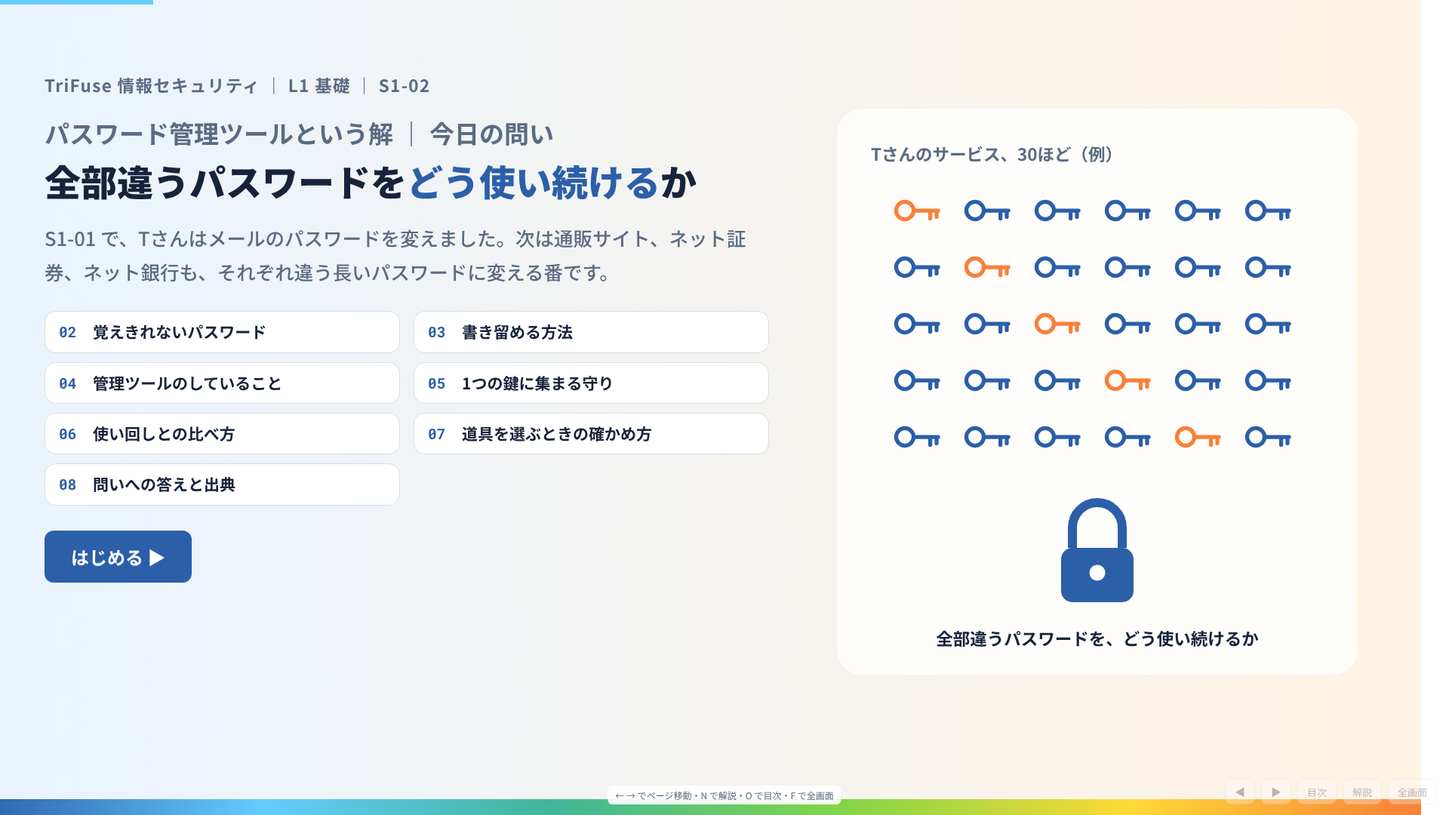
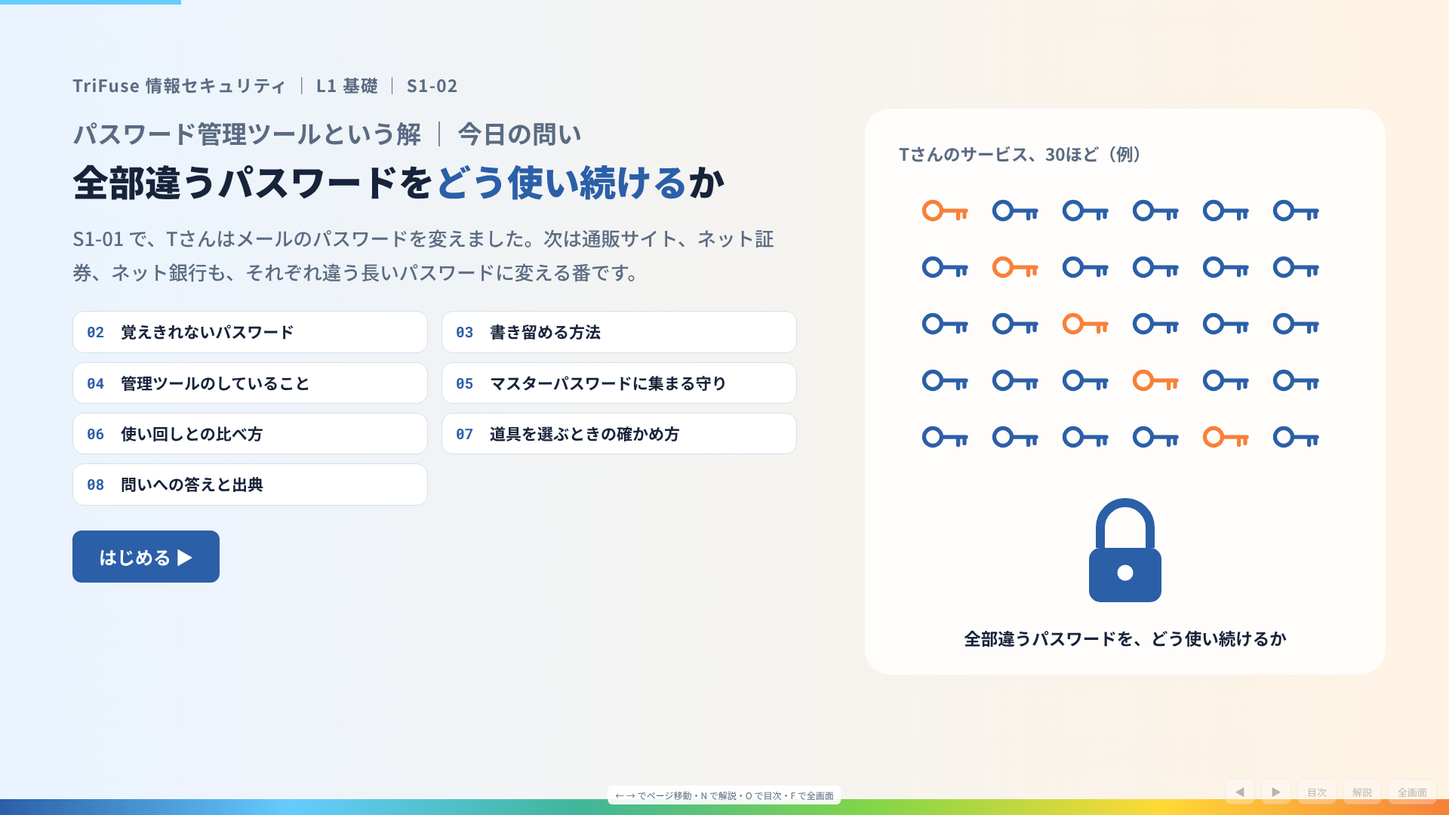
S1-02：言い方を平易に（回の番号・たとえ言葉を外す、make_site v1.29）
Claude-Session: https://claude.ai/code/session_01KsCAt1ehjeTw2EQBVCmaiN

diff --git a/s1-02/index.html b/s1-02/index.html
@@ -357,7 +357,7 @@ svg .sv{transform:none}
       <div class="cover-q fade d2">パスワード管理ツールという解 ｜ 今日の問い</div>
       <h1 class="head fade d2">全部違うパスワードを<span class="hl2">どう使い続ける</span>か</h1>
       <p class="sub fade d3">S1-01 で、Tさんはメールのパスワードを変えました。次は通販サイト、ネット証券、ネット銀行も、それぞれ違う長いパスワードに変える番です。</p>
-      <div class="toc fade d4"><button data-go="1"><span class="n">02</span>覚えきれないパスワード</button><button data-go="2"><span class="n">03</span>書き留める方法</button><button data-go="3"><span class="n">04</span>管理ツールのしていること</button><button data-go="4"><span class="n">05</span>1つの鍵に集まる守り</button><button data-go="5"><span class="n">06</span>使い回しとの比べ方</button><button data-go="6"><span class="n">07</span>道具を選ぶときの確かめ方</button><button data-go="7"><span class="n">08</span>問いへの答えと出典</button></div>
+      <div class="toc fade d4"><button data-go="1"><span class="n">02</span>覚えきれないパスワード</button><button data-go="2"><span class="n">03</span>書き留める方法</button><button data-go="3"><span class="n">04</span>管理ツールのしていること</button><button data-go="4"><span class="n">05</span>マスターパスワードに集まる守り</button><button data-go="5"><span class="n">06</span>使い回しとの比べ方</button><button data-go="6"><span class="n">07</span>道具を選ぶときの確かめ方</button><button data-go="7"><span class="n">08</span>問いへの答えと出典</button></div>
       <button class="btn pr start fade d5" data-go="1">はじめる ▶</button>
     </div>
     <svg class="cover-ill" viewBox="0 0 460 500" aria-label="ばらばらの鍵が1つにまとまる絵"><rect width="460" height="500" rx="22" fill="#fff" opacity=".8"/><g transform="scale(0.666667)"><text x="45" y="69" font-size="22.5" font-weight="700" fill="#5A6B82">Tさんのサービス、30ほど（例）</text></g><g transform="translate(60 90) scale(0.7)"><circle cx="0" cy="0" r="11" fill="none" stroke="#F88039" stroke-width="5"/><path d="M11 0H42M32 0V10M40 0V8" stroke="#F88039" stroke-width="5" stroke-linecap="round"/></g><g transform="translate(122 90) scale(0.7)"><circle cx="0" cy="0" r="11" fill="none" stroke="#2B5FA8" stroke-width="5"/><path d="M11 0H42M32 0V10M40 0V8" stroke="#2B5FA8" stroke-width="5" stroke-linecap="round"/></g><g transform="translate(184 90) scale(0.7)"><circle cx="0" cy="0" r="11" fill="none" stroke="#2B5FA8" stroke-width="5"/><path d="M11 0H42M32 0V10M40 0V8" stroke="#2B5FA8" stroke-width="5" stroke-linecap="round"/></g><g transform="translate(246 90) scale(0.7)"><circle cx="0" cy="0" r="11" fill="none" stroke="#2B5FA8" stroke-width="5"/><path d="M11 0H42M32 0V10M40 0V8" stroke="#2B5FA8" stroke-width="5" stroke-linecap="round"/></g><g transform="translate(308 90) scale(0.7)"><circle cx="0" cy="0" r="11" fill="none" stroke="#2B5FA8" stroke-width="5"/><path d="M11 0H42M32 0V10M40 0V8" stroke="#2B5FA8" stroke-width="5" stroke-linecap="round"/></g><g transform="translate(370 90) scale(0.7)"><circle cx="0" cy="0" r="11" fill="none" stroke="#2B5FA8" stroke-width="5"/><path d="M11 0H42M32 0V10M40 0V8" stroke="#2B5FA8" stroke-width="5" stroke-linecap="round"/></g><g transform="translate(60 140) scale(0.7)"><circle cx="0" cy="0" r="11" fill="none" stroke="#2B5FA8" stroke-width="5"/><path d="M11 0H42M32 0V10M40 0V8" stroke="#2B5FA8" stroke-width="5" stroke-linecap="round"/></g><g transform="translate(122 140) scale(0.7)"><circle cx="0" cy="0" r="11" fill="none" stroke="#F88039" stroke-width="5"/><path d="M11 0H42M32 0V10M40 0V8" stroke="#F88039" stroke-width="5" stroke-linecap="round"/></g><g transform="translate(184 140) scale(0.7)"><circle cx="0" cy="0" r="11" fill="none" stroke="#2B5FA8" stroke-width="5"/><path d="M11 0H42M32 0V10M40 0V8" stroke="#2B5FA8" stroke-width="5" stroke-linecap="round"/></g><g transform="translate(246 140) scale(0.7)"><circle cx="0" cy="0" r="11" fill="none" stroke="#2B5FA8" stroke-width="5"/><path d="M11 0H42M32 0V10M40 0V8" stroke="#2B5FA8" stroke-width="5" stroke-linecap="round"/></g><g transform="translate(308 140) scale(0.7)"><circle cx="0" cy="0" r="11" fill="none" stroke="#2B5FA8" stroke-width="5"/><path d="M11 0H42M32 0V10M40 0V8" stroke="#2B5FA8" stroke-width="5" stroke-linecap="round"/></g><g transform="translate(370 140) scale(0.7)"><circle cx="0" cy="0" r="11" fill="none" stroke="#2B5FA8" stroke-width="5"/><path d="M11 0H42M32 0V10M40 0V8" stroke="#2B5FA8" stroke-width="5" stroke-linecap="round"/></g><g transform="translate(60 190) scale(0.7)"><circle cx="0" cy="0" r="11" fill="none" stroke="#2B5FA8" stroke-width="5"/><path d="M11 0H42M32 0V10M40 0V8" stroke="#2B5FA8" stroke-width="5" stroke-linecap="round"/></g><g transform="translate(122 190) scale(0.7)"><circle cx="0" cy="0" r="11" fill="none" stroke="#2B5FA8" stroke-width="5"/><path d="M11 0H42M32 0V10M40 0V8" stroke="#2B5FA8" stroke-width="5" stroke-linecap="round"/></g><g transform="translate(184 190) scale(0.7)"><circle cx="0" cy="0" r="11" fill="none" stroke="#F88039" stroke-width="5"/><path d="M11 0H42M32 0V10M40 0V8" stroke="#F88039" stroke-width="5" stroke-linecap="round"/></g><g transform="translate(246 190) scale(0.7)"><circle cx="0" cy="0" r="11" fill="none" stroke="#2B5FA8" stroke-width="5"/><path d="M11 0H42M32 0V10M40 0V8" stroke="#2B5FA8" stroke-width="5" stroke-linecap="round"/></g><g transform="translate(308 190) scale(0.7)"><circle cx="0" cy="0" r="11" fill="none" stroke="#2B5FA8" stroke-width="5"/><path d="M11 0H42M32 0V10M40 0V8" stroke="#2B5FA8" stroke-width="5" stroke-linecap="round"/></g><g transform="translate(370 190) scale(0.7)"><circle cx="0" cy="0" r="11" fill="none" stroke="#2B5FA8" stroke-width="5"/><path d="M11 0H42M32 0V10M40 0V8" stroke="#2B5FA8" stroke-width="5" stroke-linecap="round"/></g><g transform="translate(60 240) scale(0.7)"><circle cx="0" cy="0" r="11" fill="none" stroke="#2B5FA8" stroke-width="5"/><path d="M11 0H42M32 0V10M40 0V8" stroke="#2B5FA8" stroke-width="5" stroke-linecap="round"/></g><g transform="translate(122 240) scale(0.7)"><circle cx="0" cy="0" r="11" fill="none" stroke="#2B5FA8" stroke-width="5"/><path d="M11 0H42M32 0V10M40 0V8" stroke="#2B5FA8" stroke-width="5" stroke-linecap="round"/></g><g transform="translate(184 240) scale(0.7)"><circle cx="0" cy="0" r="11" fill="none" stroke="#2B5FA8" stroke-width="5"/><path d="M11 0H42M32 0V10M40 0V8" stroke="#2B5FA8" stroke-width="5" stroke-linecap="round"/></g><g transform="translate(246 240) scale(0.7)"><circle cx="0" cy="0" r="11" fill="none" stroke="#F88039" stroke-width="5"/><path d="M11 0H42M32 0V10M40 0V8" stroke="#F88039" stroke-width="5" stroke-linecap="round"/></g><g transform="translate(308 240) scale(0.7)"><circle cx="0" cy="0" r="11" fill="none" stroke="#2B5FA8" stroke-width="5"/><path d="M11 0H42M32 0V10M40 0V8" stroke="#2B5FA8" stroke-width="5" stroke-linecap="round"/></g><g transform="translate(370 240) scale(0.7)"><circle cx="0" cy="0" r="11" fill="none" stroke="#2B5FA8" stroke-width="5"/><path d="M11 0H42M32 0V10M40 0V8" stroke="#2B5FA8" stroke-width="5" stroke-linecap="round"/></g><g transform="translate(60 290) scale(0.7)"><circle cx="0" cy="0" r="11" fill="none" stroke="#2B5FA8" stroke-width="5"/><path d="M11 0H42M32 0V10M40 0V8" stroke="#2B5FA8" stroke-width="5" stroke-linecap="round"/></g><g transform="translate(122 290) scale(0.7)"><circle cx="0" cy="0" r="11" fill="none" stroke="#2B5FA8" stroke-width="5"/><path d="M11 0H42M32 0V10M40 0V8" stroke="#2B5FA8" stroke-width="5" stroke-linecap="round"/></g><g transform="translate(184 290) scale(0.7)"><circle cx="0" cy="0" r="11" fill="none" stroke="#2B5FA8" stroke-width="5"/><path d="M11 0H42M32 0V10M40 0V8" stroke="#2B5FA8" stroke-width="5" stroke-linecap="round"/></g><g transform="translate(246 290) scale(0.7)"><circle cx="0" cy="0" r="11" fill="none" stroke="#2B5FA8" stroke-width="5"/><path d="M11 0H42M32 0V10M40 0V8" stroke="#2B5FA8" stroke-width="5" stroke-linecap="round"/></g><g transform="translate(308 290) scale(0.7)"><circle cx="0" cy="0" r="11" fill="none" stroke="#F88039" stroke-width="5"/><path d="M11 0H42M32 0V10M40 0V8" stroke="#F88039" stroke-width="5" stroke-linecap="round"/></g><g transform="translate(370 290) scale(0.7)"><circle cx="0" cy="0" r="11" fill="none" stroke="#2B5FA8" stroke-width="5"/><path d="M11 0H42M32 0V10M40 0V8" stroke="#2B5FA8" stroke-width="5" stroke-linecap="round"/></g><g transform="translate(230 400) scale(2)"><path d="M-11 -6V-15A11 11 0 0 1 11 -15V-6" fill="none" stroke="#2B5FA8" stroke-width="4"/><rect x="-16" y="-6" width="32" height="24" rx="5" fill="#2B5FA8"/><circle cx="0" cy="5" r="3.5" fill="#fff"/></g><g transform="scale(0.666667)"><text x="345" y="711" text-anchor="middle" font-size="22.5" font-weight="700" fill="#16233A">全部違うパスワードを、どう使い続けるか</text></g></svg>
@@ -407,20 +407,20 @@ svg .sv{transform:none}
 <g class="sv" data-s="2"><rect x="216" y="244" width="170" height="70" rx="12" fill="#fff" stroke="#D8DFE8" stroke-width="2"/><g transform="scale(0.666667)"><text x="451.5" y="427.5" text-anchor="middle" font-size="22.5" font-weight="700" fill="#16233A">末尾の数字だけを変える</text></g></g>
 <g class="sv" data-s="3"><path d="M226 279H376" stroke="#F88039" stroke-width="3"/><circle cx="366" cy="254" r="16" fill="#FFF1E6" stroke="#F88039" stroke-width="3"/><path d="M359.3 247.3L372.7 260.7M372.7 247.3L359.3 260.7" stroke="#B5500F" stroke-width="4" stroke-linecap="round"/></g>
 <g class="sv" data-s="2"><rect x="402" y="244" width="170" height="70" rx="12" fill="#fff" stroke="#D8DFE8" stroke-width="2"/><g transform="scale(0.666667)"><text x="730.5" y="427.5" text-anchor="middle" font-size="22.5" font-weight="700" fill="#16233A">どこかに書き留める</text></g></g>
-<g class="sv" data-s="3"><g transform="scale(0.666667)"><text x="324" y="519" text-anchor="middle" font-size="22.5" font-weight="700" fill="#B5500F">全部違うパスワード、という条件を満たさない</text></g><g transform="scale(0.666667)"><text x="324" y="555" text-anchor="middle" font-size="19.5" fill="#5A6B82">使い回しは1か所の漏洩が全部へ。数字だけ変えると、規則を読まれる</text></g></g>
+<g class="sv" data-s="3"><g transform="scale(0.666667)"><text x="324" y="519" text-anchor="middle" font-size="22.5" font-weight="700" fill="#B5500F">どちらも、全部違うパスワードにならない</text></g><g transform="scale(0.666667)"><text x="324" y="555" text-anchor="middle" font-size="19.5" fill="#5A6B82">使い回しは1か所の漏洩が全部へ。数字だけ変えると、規則を読まれる</text></g></g>
 <g class="sv" data-s="3"><g transform="scale(0.666667)"><text x="742.5" y="519" text-anchor="middle" font-size="22.5" font-weight="700" fill="#1F7A63">残るのはこれ</text></g></g>
 </svg>
     </div>
     <div class="kp fade d2">
-      <div class="card"><h4>S0-EX で入口を数え直すと<span class="ex">（例）</span></h4><p>4つの口座のほかに、動画の配信、SNS、携帯会社のマイページ、ポイントカードなど。合わせて30ほどあった。</p></div>
+      <div class="card"><h4>Tさんが使っているサービスを数えると<span class="ex">（例）</span></h4><p>4つの口座のほかに、動画の配信、SNS、携帯会社のマイページ、ポイントカードなど。合わせて30ほどあった。</p></div>
       <div class="card sv" data-s="2"><h4>覚えきれないとき、やりがちな3通り</h4><p>同じものを使い回す。1つの文字列の末尾の数字だけを変える。どこかに書き留める。</p></div>
-      <div class="card sv" data-s="3" style="border-left:7.5px solid var(--warn)"><h4>はじめの2つは条件を満たさない</h4><p>使い回しは、1か所の漏洩が全部の口座に広がる（S1-01）。末尾の数字だけを変えると、規則を読まれて残りまで当てられる。</p></div>
+      <div class="card sv" data-s="3" style="border-left:7.5px solid var(--warn)"><h4>はじめの2つは、全部違うパスワードにならない</h4><p>使い回しは、1か所から漏れると全部の口座が開く。末尾の数字だけを変えると、規則を読まれて残りまで当てられる。</p></div>
     </div>
   </div>
 </section>
 
 <section id="p3" class="slide page hasbr" data-n="s2" data-steps="3">
-  <header class="hd"><span class="chap">2. 書き留める方法</span><h2 class="head">書き留める方法は、書く場所と置く場所しだいで使える方法になる</h2><span class="num">03</span></header><p class="bridge"><b class="bk">前で分かったこと</b><span>残るのは、書き留める方法</span><i class="ar">→</i><b class="bk now">ここで見ること</b><span>国の手引きが挙げる保管のしかた</span></p>
+  <header class="hd"><span class="chap">2. 書き留める方法</span><h2 class="head">書き留めるなら、どこに置くかで安全さが変わる</h2><span class="num">03</span></header><p class="bridge"><b class="bk">前で分かったこと</b><span>残るのは、書き留める方法</span><i class="ar">→</i><b class="bk now">ここで見ること</b><span>国の手引きが挙げる保管のしかた</span></p>
   <div class="body bt" style="display:flex;flex-direction:column;gap:21px">
     <div class="stepbar"><b style="font-size:22.5px">保管のしかたを見る</b><button class="btn pr" data-next>次の段階 ▶</button><button class="btn" data-reset>はじめから</button><span class="hint">→キーでも進みます</span></div>
     <div class="g3" style="display:grid;grid-template-columns:repeat(3,1fr);gap:21px">
@@ -455,7 +455,7 @@ svg .sv{transform:none}
 </section>
 
 <section id="p5" class="slide page hasbr" data-n="s4" data-steps="4">
-  <header class="hd"><span class="chap">4. 1つの鍵に集まる守り</span><h2 class="head">30個の鍵が1つの鍵の後ろにまとまり、その1つが破られると全部開く</h2><span class="num">05</span></header><p class="bridge"><b class="bk">前で分かったこと</b><span>覚えるのはマスターパスワード1つ</span><i class="ar">→</i><b class="bk now">ここで見ること</b><span>1つに集めたことで起きること</span></p>
+  <header class="hd"><span class="chap">4. マスターパスワードに集まる守り</span><h2 class="head">マスターパスワードが破られると、30個のパスワードが全部開く</h2><span class="num">05</span></header><p class="bridge"><b class="bk">前で分かったこと</b><span>覚えるのはマスターパスワード1つ</span><i class="ar">→</i><b class="bk now">ここで見ること</b><span>1つに集めたことで起きること</span></p>
   <div class="body" style="display:grid;grid-template-columns:1.3fr 1fr;gap:33px">
     <div class="card fade d1" style="display:flex;flex-direction:column;gap:9px">
       <div class="stepbar"><b style="font-size:22.5px">守りを集める</b><button class="btn pr" data-next>次の段階 ▶</button><button class="btn" data-reset>はじめから</button><span class="hint">→キーでも進みます</span></div>
@@ -523,46 +523,46 @@ svg .sv{transform:none}
 <g class="sv" data-s="2"><g transform="translate(530 268) scale(0.55)"><circle cx="0" cy="0" r="11" fill="none" stroke="#F88039" stroke-width="5"/><path d="M11 0H42M32 0V10M40 0V8" stroke="#F88039" stroke-width="5" stroke-linecap="round"/></g></g>
 <g><g transform="translate(125 160) scale(2.2)"><path d="M-11 -6V-15A11 11 0 0 1 11 -15V-6" fill="none" stroke="#2B5FA8" stroke-width="4"/><rect x="-16" y="-6" width="32" height="24" rx="5" fill="#2B5FA8"/><circle cx="0" cy="5" r="3.5" fill="#fff"/></g><g transform="scale(0.666667)"><text x="187.5" y="354" text-anchor="middle" font-size="24" font-weight="900" fill="#16233A">マスターパスワード</text></g><g transform="scale(0.666667)"><text x="187.5" y="387" text-anchor="middle" font-size="19.5" fill="#5A6B82">覚えるのは、この1つ</text></g></g>
 <g class="sv" data-s="2"><g transform="translate(125 160) scale(2.2)"><path d="M-11 -6V-15A11 11 0 0 1 11 -15V-22" fill="none" stroke="#F88039" stroke-width="4"/><rect x="-16" y="-6" width="32" height="24" rx="5" fill="#F88039"/><circle cx="0" cy="5" r="3.5" fill="#fff"/></g><g transform="scale(0.666667)"><text x="187.5" y="444" text-anchor="middle" font-size="21" font-weight="700" fill="#B5500F">破られると、後ろの</text></g><g transform="scale(0.666667)"><text x="187.5" y="471" text-anchor="middle" font-size="21" font-weight="700" fill="#B5500F">30個がまとめて開く</text></g></g>
-<g class="sv" data-s="3"><rect x="30" y="326" width="540" height="70" rx="12" fill="#E7F6F1" stroke="#40B69A" stroke-width="2"/><g transform="scale(0.666667)"><text x="450" y="531" text-anchor="middle" font-size="22.5" font-weight="700" fill="#1F7A63">集まった1か所に、S1-01 の守りをすべて当てる</text></g><g transform="scale(0.666667)"><text x="450" y="567" text-anchor="middle" font-size="21" fill="#1F7A63">ほかで使わない長いマスターパスワード ＋ 管理ツールに多要素認証</text></g></g>
+<g class="sv" data-s="3"><rect x="30" y="326" width="540" height="70" rx="12" fill="#E7F6F1" stroke="#40B69A" stroke-width="2"/><g transform="scale(0.666667)"><text x="450" y="531" text-anchor="middle" font-size="22.5" font-weight="700" fill="#1F7A63">だから、マスターパスワードを固める</text></g><g transform="scale(0.666667)"><text x="450" y="567" text-anchor="middle" font-size="21" fill="#1F7A63">ほかで使わない長いマスターパスワード ＋ 管理ツールに多要素認証</text></g></g>
 </svg>
     </div>
     <div class="kp fade d2">
-      <div class="card sv" data-s="1"><h4>相手から見た値打ちが大きくなる</h4><p>S0-01 の「取れる額・成功のしやすさ・かかる手間」で言えば、開ければ30の口座が手に入る鍵。</p></div>
-      <div class="card sv" data-s="4" style="border-left:7.5px solid var(--warn)"><h4>忘れたときにどうなるか、先に確かめる</h4><p>管理ツールの多くは、マスターパスワードを忘れると提供元でも中身を取り出せない作り（製品によって違う）。自分も入れなくなる締め出しは S3-04 で扱う。</p></div>
-      <div class="sv" data-s="4"><p class="ans"><b>2つ目の答え</b>集まった1か所に守りを集め、忘れたときの戻り方を使い始める前に確かめる</p></div>
+      <div class="card sv" data-s="1"><h4>相手にとって、ねらう値打ちが大きい</h4><p>開ければ30の口座が一度に手に入る鍵になる。</p></div>
+      <div class="card sv" data-s="4" style="border-left:7.5px solid var(--warn)"><h4>忘れたときにどうなるか、先に確かめる</h4><p>管理ツールの多くは、マスターパスワードを忘れると提供元でも中身を取り出せない作り（製品によって違う）。忘れると、自分も入れなくなる。</p></div>
+      <div class="sv" data-s="4"><p class="ans"><b>2つ目の答え</b>マスターパスワードを固め、忘れたときの戻り方を使い始める前に確かめる</p></div>
     </div>
   </div>
 </section>
 
 <section id="p6" class="slide page hasbr" data-n="s5" data-steps="3">
-  <header class="hd"><span class="chap">5. 使い回しとの比べ方</span><h2 class="head">開く口座の数はどれも全部で、違うのは破られる入口の数</h2><span class="num">06</span></header><p class="bridge"><b class="bk">前で分かったこと</b><span>1つが破られると、全部が開く</span><i class="ar">→</i><b class="bk now">ここで見ること</b><span>それなら使わないほうがよいのか、前の方法と比べる</span></p>
+  <header class="hd"><span class="chap">5. 使い回しとの比べ方</span><h2 class="head">どの方法も破られれば全部開く。違うのは、漏れる入口が30か所か1か所か</h2><span class="num">06</span></header><p class="bridge"><b class="bk">前で分かったこと</b><span>1つが破られると、全部が開く</span><i class="ar">→</i><b class="bk now">ここで見ること</b><span>それなら使わないほうがよいのか、前の方法と比べる</span></p>
   <div class="body bt" style="display:flex;flex-direction:column;gap:21px">
     <div class="stepbar"><b style="font-size:22.5px">比べる列を出す</b><button class="btn pr" data-next>次の段階 ▶</button><button class="btn" data-reset>はじめから</button><span class="hint">→キーでも進みます</span></div>
     <div class="card fade d1" style="padding:9px 15px">
       <table class="atk atk4" style="width:100%;border-collapse:collapse">
-        <tr><th style="text-align:left;padding:15px 21px;font-size:21px;color:#5A6B82;border-bottom:3px solid #D8DFE8">方法</th><th style="text-align:left;padding:15px 21px;font-size:21px;color:#5A6B82;border-bottom:3px solid #D8DFE8">破られたときに開く口座</th><th style="text-align:left;padding:15px 21px;font-size:21px;color:#5A6B82;border-bottom:3px solid #D8DFE8">破られる入口の数</th><th style="text-align:left;padding:15px 21px;font-size:21px;color:#5A6B82;border-bottom:3px solid #D8DFE8"></th></tr>
+        <tr><th style="text-align:left;padding:15px 21px;font-size:21px;color:#5A6B82;border-bottom:3px solid #D8DFE8">方法</th><th style="text-align:left;padding:15px 21px;font-size:21px;color:#5A6B82;border-bottom:3px solid #D8DFE8">破られたときに開く口座</th><th style="text-align:left;padding:15px 21px;font-size:21px;color:#5A6B82;border-bottom:3px solid #D8DFE8">漏れる入口の数</th><th style="text-align:left;padding:15px 21px;font-size:21px;color:#5A6B82;border-bottom:3px solid #D8DFE8"></th></tr>
         <tr><td style="padding:21px 24px;border-bottom:1.5px solid #D8DFE8;font-size:24px;font-weight:700">全部同じパスワード（使い回し）</td><td class="sv" data-s="1" style="padding:21px 24px;border-bottom:1.5px solid #D8DFE8;font-size:24px">全部</td><td class="sv" data-s="2" style="padding:21px 24px;border-bottom:1.5px solid #D8DFE8;font-size:24px;font-weight:900;color:#B5500F;white-space:nowrap">30か所</td><td class="sv" data-s="2" style="padding:21px 24px;border-bottom:1.5px solid #D8DFE8;font-size:24px;font-size:21px;color:#5A6B82">どのサービスから漏れても開く</td></tr><tr><td style="padding:21px 24px;border-bottom:1.5px solid #D8DFE8;font-size:24px;font-weight:700">末尾の数字だけ変える</td><td class="sv" data-s="1" style="padding:21px 24px;border-bottom:1.5px solid #D8DFE8;font-size:24px">規則を読まれれば全部</td><td class="sv" data-s="2" style="padding:21px 24px;border-bottom:1.5px solid #D8DFE8;font-size:24px;font-weight:900;color:#B5500F;white-space:nowrap">30か所</td><td class="sv" data-s="2" style="padding:21px 24px;border-bottom:1.5px solid #D8DFE8;font-size:24px;font-size:21px;color:#5A6B82">どこか1つから規則を読まれる</td></tr><tr><td style="padding:21px 24px;border-bottom:1.5px solid #D8DFE8;font-size:24px;font-weight:700">管理ツール</td><td class="sv" data-s="1" style="padding:21px 24px;border-bottom:1.5px solid #D8DFE8;font-size:24px">マスターパスワードが破られれば全部</td><td class="sv" data-s="2" style="padding:21px 24px;border-bottom:1.5px solid #D8DFE8;font-size:24px;font-weight:900;color:#1F7A63;white-space:nowrap">1か所</td><td class="sv" data-s="2" style="padding:21px 24px;border-bottom:1.5px solid #D8DFE8;font-size:24px;font-size:21px;color:#5A6B82">守りを集められる</td></tr>
       </table>
     </div>
-    <div class="keymsg sv" data-s="3" style="font-size:30px;padding:18px 24px">危ないのは、1か所に集めることよりも、集めた1か所を守っていないこと</div>
+    <div class="keymsg sv" data-s="3" style="font-size:30px;padding:18px 24px">危ないのは管理ツールではなく、マスターパスワードを守っていないこと</div>
     <p class="note sv" data-s="3">このカリキュラムは、管理ツールを使うべきだとは言いません。言えるのは、30個の違うパスワードを記憶だけで回すことはできないことと、道具を使うなら守りをどこに集めるかということまでです。</p>
   </div>
 </section>
 
 <section id="p7" class="slide page hasbr" data-n="s6" data-steps="4">
-  <header class="hd"><span class="chap">6. 道具を選ぶときの確かめ方</span><h2 class="head">道具は製品の名前ではなく、5つの点を説明書きや設定画面で確かめる</h2><span class="num">07</span></header><p class="bridge"><b class="bk">前で分かったこと</b><span>守りを集めた1か所を守ることが要</span><i class="ar">→</i><b class="bk now">ここで見ること</b><span>道具を比べるときに確かめること</span></p>
+  <header class="hd"><span class="chap">6. 道具を選ぶときの確かめ方</span><h2 class="head">道具は名前で選ばず、5つの点を説明書きや設定画面で確かめる</h2><span class="num">07</span></header><p class="bridge"><b class="bk">前で分かったこと</b><span>マスターパスワードを守ることが大事</span><i class="ar">→</i><b class="bk now">ここで見ること</b><span>道具を比べるときに確かめること</span></p>
   <div class="body bt" style="display:flex;flex-direction:column;gap:18px">
     <div class="stepbar"><b style="font-size:22.5px">確かめる点を並べる</b><button class="btn pr" data-next>次の段階 ▶</button><button class="btn" data-reset>はじめから</button><span class="hint">→キーでも進みます</span></div>
-    <div class="card sv" data-s="1" style="display:flex;gap:21px;align-items:center;padding:18px 27px"><span class="pill" style="flex:none;min-width:225px;justify-content:center">守りが働くか</span><p style="color:var(--ink);font-weight:700;font-size:24px">保管したパスワードが暗号化され、提供元からも中身が見えない作りか</p></div><div class="card sv" data-s="1" style="display:flex;gap:21px;align-items:center;padding:18px 27px"><span class="pill" style="flex:none;min-width:225px;justify-content:center">守りが働くか</span><p style="color:var(--ink);font-weight:700;font-size:24px">管理ツールに多要素認証を設定できるか</p></div><div class="card sv" data-s="2" style="display:flex;gap:21px;align-items:center;padding:18px 27px"><span class="pill w" style="flex:none;min-width:225px;justify-content:center">締め出されないか</span><p style="color:var(--ink);font-weight:700;font-size:24px">マスターパスワードを忘れたときに、どうなるか</p></div><div class="card sv" data-s="2" style="display:flex;gap:21px;align-items:center;padding:18px 27px"><span class="pill w" style="flex:none;min-width:225px;justify-content:center">締め出されないか</span><p style="color:var(--ink);font-weight:700;font-size:24px">スマホやパソコンが壊れたときに、中身を取り出せるか</p></div><div class="card sv" data-s="3" style="display:flex;gap:21px;align-items:center;padding:18px 27px"><span class="pill g" style="flex:none;min-width:225px;justify-content:center">預ける相手（S3-03）</span><p style="color:var(--ink);font-weight:700;font-size:24px">提供元はどこで、サービスが終わったときにどうなるか</p></div>
-    <div class="sv" data-s="4"><p class="ans"><b>3つ目の答え</b>製品の名前ではなく、守り・締め出し・預ける相手の5つの点で道具を確かめる</p><p class="note" style="margin-top:9px">どれだけ強い鍵でも、偽のログイン画面に自分で入力すれば相手に渡る。偽の画面への対処は次の S1-03。</p></div>
+    <div class="card sv" data-s="1" style="display:flex;gap:21px;align-items:center;padding:18px 27px"><span class="pill" style="flex:none;min-width:225px;justify-content:center">守りが働くか</span><p style="color:var(--ink);font-weight:700;font-size:24px">保管したパスワードが暗号化され、提供元からも中身が見えない作りか</p></div><div class="card sv" data-s="1" style="display:flex;gap:21px;align-items:center;padding:18px 27px"><span class="pill" style="flex:none;min-width:225px;justify-content:center">守りが働くか</span><p style="color:var(--ink);font-weight:700;font-size:24px">管理ツールに多要素認証を設定できるか</p></div><div class="card sv" data-s="2" style="display:flex;gap:21px;align-items:center;padding:18px 27px"><span class="pill w" style="flex:none;min-width:225px;justify-content:center">自分が入れなくならないか</span><p style="color:var(--ink);font-weight:700;font-size:24px">マスターパスワードを忘れたときに、どうなるか</p></div><div class="card sv" data-s="2" style="display:flex;gap:21px;align-items:center;padding:18px 27px"><span class="pill w" style="flex:none;min-width:225px;justify-content:center">自分が入れなくならないか</span><p style="color:var(--ink);font-weight:700;font-size:24px">スマホやパソコンが壊れたときに、中身を取り出せるか</p></div><div class="card sv" data-s="3" style="display:flex;gap:21px;align-items:center;padding:18px 27px"><span class="pill g" style="flex:none;min-width:225px;justify-content:center">預ける会社は大丈夫か</span><p style="color:var(--ink);font-weight:700;font-size:24px">提供元はどこで、サービスが終わったときにどうなるか</p></div>
+    <div class="sv" data-s="4"><p class="ans"><b>3つ目の答え</b>製品の名前ではなく、守りが働くか・自分が入れなくならないか・預ける会社は大丈夫か、の5つの点で確かめる</p><p class="note" style="margin-top:9px">どれだけ強い鍵でも、偽のログイン画面に自分で入力すれば相手に渡る。偽の画面の見分け方は、次の回（S1-03）で扱う。</p></div>
   </div>
 </section>
 
 <section id="p8" class="slide page hasbr" data-n="sum">
-  <header class="hd"><span class="chap">問いへの答えと出典</span><h2 class="head">道具に生成と保管を任せ、集まった1か所に守りを集める</h2><span class="num">08</span></header><p class="bridge"><b class="bk">今日の問い</b><span>全部違う長いパスワードを、Tさんはどうやって使い続けるのか</span></p>
+  <header class="hd"><span class="chap">問いへの答えと出典</span><h2 class="head">覚えるのは1つだけ。その1つを固める</h2><span class="num">08</span></header><p class="bridge"><b class="bk">今日の問い</b><span>全部違う長いパスワードを、Tさんはどうやって使い続けるのか</span></p>
   <div class="body sumb" style="display:grid;grid-template-columns:1.15fr 1fr;gap:33px">
     <div class="kp" style="gap:15px">
-      <div class="card fade d1 a3"><span class="no">1</span><div><h4>覚えるのはマスターパスワード1つ</h4><p>保管・生成・入力を道具に任せる（3節）</p></div></div><div class="card fade d2 a3"><span class="no">2</span><div><h4>集めた1か所を守る</h4><p>ほかで使わない長いもの＋多要素認証。忘れたときを先に確かめる（4〜5節）</p></div></div><div class="card fade d3 a3"><span class="no">3</span><div><h4>5つの点で道具を確かめる</h4><p>守りが働くか、締め出されないか、預ける相手（6節）</p></div></div>
+      <div class="card fade d1 a3"><span class="no">1</span><div><h4>覚えるのはマスターパスワード1つ</h4><p>保管・生成・入力は道具に任せる</p></div></div><div class="card fade d2 a3"><span class="no">2</span><div><h4>マスターパスワードを固める</h4><p>ほかで使わない長いもの＋多要素認証。忘れたときの戻り方を先に確かめる</p></div></div><div class="card fade d3 a3"><span class="no">3</span><div><h4>5つの点で道具を確かめる</h4><p>守りが働くか、自分が入れなくならないか、預ける会社は大丈夫か</p></div></div>
       <p class="note fade d4">この資料は事実と構造の説明であって、推奨ではありません。どの製品やサービスを使うか、いまの環境が安全かどうかの判定は、この資料の外にあります。決めるのはあなたです。</p>
     </div>
     <div class="card fade d5" style="display:flex;flex-direction:column;gap:12px;align-self:start">
@@ -602,7 +602,7 @@ svg .sv{transform:none}
 <p>管理ツールがしていることは、保管、生成、入力の3つです。保管は、30個のパスワードを暗号化してしまっておくことです。生成では、長くてでたらめな文字列を作ります。入力は、開いているサービスに合ったパスワードを取り出して入れることです。</p>
 <p>Tさんにとって効くのは、生成です。文字列を自分で考えなくてよいので、覚えやすさを気にする必要がなくなります。長さも、全部違うことも、無理なく満たせます。</p>
 <p>代わりに、Tさんが覚えるのは、管理ツールそのものを開くためのパスワード1つになります。これを<b>マスターパスワード</b>と呼びます。</p></div>
-<div class="notes-src" id="notes-s4"><h5 style="font-size:15px;margin:8px 0 6px">4. 1つの鍵に集まる守り</h5>
+<div class="notes-src" id="notes-s4"><h5 style="font-size:15px;margin:8px 0 6px">4. マスターパスワードに集まる守り</h5>
 <p>30個の鍵が、マスターパスワードという1つの鍵の後ろにまとまりました。これで守る場所がはっきりしますが、その1つが破られると、後ろの30個がまとめて開いてしまいます。</p>
 <p>S0-01 で見た「取れる額・成功のしやすさ・かかる手間」で言えば、マスターパスワードは、開ければ30の口座が手に入る鍵です。相手から見た値打ちは、集めた分だけ大きくなります。</p>
 <p>そのため、集まった1か所には、S1-01 で扱った守りをすべて当てます。マスターパスワードはほかのどこでも使わない長いものにすること、管理ツールに多要素認証を設定すること、の2つです。</p>

diff --git a/list/index.html b/list/index.html
@@ -68,7 +68,7 @@ footer{margin-top:48px;padding-top:16px;border-top:1px solid var(--rule);font-si
 <h3 class="lv" id="s1">L1 基礎（11本）</h3>
 <div class="cards">
 <article class="dk"><div class="top"><span class="code">S1-01</span><span class="pg">10ページ</span></div><a class="tt" href="../s1-01/">パスワードとMFA</a><ol><li><a href="../s1-01/#p1"><span>問い</span>漏れたパスワードは証券口座まで届くのか</a></li><li><a href="../s1-01/#p2"><span>02</span>Tさんの4つの口座は、同じメールアドレスと同じパスワード</a></li><li><a href="../s1-01/#p3"><span>03</span>漏れた組み合わせは、ほかのサービスのログイン画面でもまとめて試される</a></li><li><a href="../s1-01/#p4"><span>04</span>長く複雑にしても、漏れたパスワードはそのまま使われる</a></li><li><a href="../s1-01/#p5"><span>05</span>パスワードと別の種類の確認を足すと、漏れたパスワードだけでは入れない</a></li><li><a href="../s1-01/#p6"><span>06</span>多要素認証で止まるのは、相手がパスワードしか持っていない攻撃</a></li><li><a href="../s1-01/#p7"><span>07</span>止まらない攻撃が残っても、多要素認証は設定する価値がある</a></li><li><a href="../s1-01/#p8"><span>08</span>最初に直すのはメール。取られると、ほかの口座のパスワードまで変えられる</a></li><li><a href="../s1-01/#p9"><span>09</span>Gmail のパスワードを渡してしまったら、危なさは3つに分かれる</a></li><li><a href="../s1-01/#p10"><span>10</span>使い回すと届く。止めるのは、使い回さないことと多要素認証</a></li></ol></article>
-<article class="dk"><div class="top"><span class="code">S1-02</span><span class="pg">8ページ</span></div><a class="tt" href="../s1-02/">パスワード管理ツールという解</a><ol><li><a href="../s1-02/#p1"><span>問い</span>全部違うパスワードをどう使い続けるか</a></li><li><a href="../s1-02/#p2"><span>02</span>30個の長くてばらばらな文字列は、頭だけでは覚えておけない</a></li><li><a href="../s1-02/#p3"><span>03</span>書き留める方法は、書く場所と置く場所しだいで使える方法になる</a></li><li><a href="../s1-02/#p4"><span>04</span>管理ツールがしていることは、保管・生成・入力の3つ</a></li><li><a href="../s1-02/#p5"><span>05</span>30個の鍵が1つの鍵の後ろにまとまり、その1つが破られると全部開く</a></li><li><a href="../s1-02/#p6"><span>06</span>開く口座の数はどれも全部で、違うのは破られる入口の数</a></li><li><a href="../s1-02/#p7"><span>07</span>道具は製品の名前ではなく、5つの点を説明書きや設定画面で確かめる</a></li><li><a href="../s1-02/#p8"><span>08</span>道具に生成と保管を任せ、集まった1か所に守りを集める</a></li></ol></article>
+<article class="dk"><div class="top"><span class="code">S1-02</span><span class="pg">8ページ</span></div><a class="tt" href="../s1-02/">パスワード管理ツールという解</a><ol><li><a href="../s1-02/#p1"><span>問い</span>全部違うパスワードをどう使い続けるか</a></li><li><a href="../s1-02/#p2"><span>02</span>30個の長くてばらばらな文字列は、頭だけでは覚えておけない</a></li><li><a href="../s1-02/#p3"><span>03</span>書き留めるなら、どこに置くかで安全さが変わる</a></li><li><a href="../s1-02/#p4"><span>04</span>管理ツールがしていることは、保管・生成・入力の3つ</a></li><li><a href="../s1-02/#p5"><span>05</span>マスターパスワードが破られると、30個のパスワードが全部開く</a></li><li><a href="../s1-02/#p6"><span>06</span>どの方法も破られれば全部開く。違うのは、漏れる入口が30か所か1か所か</a></li><li><a href="../s1-02/#p7"><span>07</span>道具は名前で選ばず、5つの点を説明書きや設定画面で確かめる</a></li><li><a href="../s1-02/#p8"><span>08</span>覚えるのは1つだけ。その1つを固める</a></li></ol></article>
 <article class="dk"><div class="top"><span class="code">S1-03</span><span class="pg">8ページ</span></div><a class="tt" href="../s1-03/">フィッシングと偽サイトの確認手順</a><ol><li><a href="../s1-03/#p1"><span>問い</span>本物そっくりの知らせに何を見て、どう動くか</a></li><li><a href="../s1-03/#p2"><span>02</span>平日の夜、取引しているネット証券の名前でショートメッセージが届いた</a></li><li><a href="../s1-03/#p3"><span>03</span>文面のうまさは目印にならず、見分けの失敗にも気づけない</a></li><li><a href="../s1-03/#p4"><span>04</span>相手の出来ではなく、本物の金融機関ならしないことに当てはまるかを見る</a></li><li><a href="../s1-03/#p5"><span>05</span>知らせのリンクからは入らず、自分の側から証券会社の画面を開く</a></li><li><a href="../s1-03/#p6"><span>06</span>最初の一度は、住所のドメインとアプリの提供元を読む</a></li><li><a href="../s1-03/#p7"><span>07</span>見た目で見分けるのをやめ、相手の側から照らし合わせる</a></li><li><a href="../s1-03/#p8"><span>08</span>本物がしないことで判別し、自分で用意した入口から入る</a></li></ol></article>
 <article class="dk"><div class="top"><span class="code">S1-04</span><span class="pg">9ページ</span></div><a class="tt" href="../s1-04/">OSとアプリを更新する意味</a><ol><li><a href="../s1-04/#p1"><span>問い</span>更新の通知はどれくらい後回しにしてよいか</a></li><li><a href="../s1-04/#p2"><span>02</span>鍵が強くても、端末に穴があれば、相手は鍵を通らずに入る</a></li><li><a href="../s1-04/#p3"><span>03</span>更新の中身の中心は、新しい機能ではなく、見つかった穴を塞ぐこと</a></li><li><a href="../s1-04/#p4"><span>04</span>修正が出た後は、穴の場所を誰でも知ることができる</a></li><li><a href="../s1-04/#p5"><span>05</span>後回しにした期間が長いほど、危険は大きくなる</a></li><li><a href="../s1-04/#p6"><span>06</span>配布が終わった端末では、穴が見つかっても二度と塞がらない</a></li><li><a href="../s1-04/#p7"><span>07</span>S0-EX で数えた入口を、更新する順に並べ直し、自動更新に任せる</a></li><li><a href="../s1-04/#p8"><span>08</span>防げない穴が残るなら、その穴から届く範囲を決めておく</a></li><li><a href="../s1-04/#p9"><span>09</span>配られたら早いうちに。仕組みに任せ、塞げない端末は切り離す</a></li></ol></article>
 <article class="dk"><div class="top"><span class="code">S1-05</span><span class="pg">8ページ</span></div><a class="tt" href="../s1-05/">端末とネットワークとアプリ権限の衛生管理</a><ol><li><a href="../s1-05/#p1"><span>問い</span>鍵の外側に開いている入口はどこか</a></li><li><a href="../s1-05/#p2"><span>02</span>先に減らしてから、残ったものを硬くする順番で、端末のまわりを点検する</a></li><li><a href="../s1-05/#p3"><span>03</span>開いたままの端末の中では、S1-01 と S1-02 の守りが働かない</a></li><li><a href="../s1-05/#p4"><span>04</span>家の中の通信はすべて Wi-Fi の機器を通るので、ここも更新と鍵の対象になる</a></li><li><a href="../s1-05/#p5"><span>05</span>暗号化が守るのはやり取りの中身で、相手が本物かどうかまでは守らない</a></li><li><a href="../s1-05/#p6"><span>06</span>権限を与えると、データは事業者へ、さらにその先へ渡ることもある</a></li><li><a href="../s1-05/#p7"><span>07</span>入口は、パスワードのかかったログイン画面だけではない</a></li><li><a href="../s1-05/#p8"><span>08</span>開いたままの画面、初期設定のままの機器、与えたまま忘れた権限</a></li></ol></article>
@@ -303,7 +303,7 @@ footer{margin-top:48px;padding-top:16px;border-top:1px solid var(--rule);font-si
 <article class="dk"><div class="top"><span class="code">E3-EX</span><span class="pg">7ページ</span></div><a class="tt" href="../e3-ex/">卒業課題：波及経路と反証条件を明示して読む</a><ol><li><a href="../e3-ex/#p1"><span>問い</span>読み筋を三手先まで、外れる条件つきで書く</a></li><li><a href="../e3-ex/#p2"><span>02</span>1本のニュースから、1つの読み筋を三手先まで、条件と外れる条件つきで</a></li><li><a href="../e3-ex/#p3"><span>03</span>書くことは5つ。中心は三手の読み筋と、段ごとの出典</a></li><li><a href="../e3-ex/#p4"><span>04</span>三手を経路の名前で書き、対立する見方と反証条件を添える</a></li><li><a href="../e3-ex/#p5"><span>05</span>運営が見るのは、3つの評価軸だけ。当たり外れは見ない</a></li><li><a href="../e3-ex/#p6"><span>06</span>題材は、官公庁や中央銀行の決定や統計を報じた公表済みのニュースに限る</a></li><li><a href="../e3-ex/#p7"><span>07</span>三手の読み筋を、段ごとの出典、対立する見方、反証条件で支える</a></li></ol></article>
 </div>
 </section>
-<footer>make_site v1.28（s0-01 50c2e74a・s0-02 2e95fb85・s0-ex f2a050db・a0-01 30b2ef9f・a0-02 78939ab9・a0-ex e6d43d4a・f0-01 23dde620・f0-02 466eb6ce・f0-03 c23f17cb・f0-04 93c8d941・f0-ex cd29c841・e0-01 535e488a・e0-02 5b2a3c6a・e0-ex 70aa4361・f1-01 b1ec7614・f1-02 4248ca1f・f1-03 e6e039cd・f1-04 368722ae・f1-05 02fb2ad5・f1-06 9df6d592・f1-07 f7a43dd8・f1-08 fb1232a5・f1-09 1fbb41cd・f1-10 af3f724b・s1-01 a51aae27・s1-02 c4ace705・s1-03 8658725b・s1-04 1f29bea3・s1-05 d9ac88dd・s1-06 4d6f40f9・s1-07 95ee285b・s1-08 63af92dc・s1-09 24c21369・s1-10 9bf7b858・s1-ex 2dfb9175・s2-01 7470b37d・s2-02 7f980b8d・s2-03 fa460cf1・s2-04 7ffccece・s2-05 77ae8dc8・s2-06 7869209f・s2-07 7caf2a14・s2-08 4cd032ba・s2-ex 2f635534・s3-01 da4874a0・s3-02 259b2144・s3-03 93bee158・s3-04 03857286・s3-05 9c42f2e6・s3-ex 76a0d264・e1-01 fc9b31af・e1-02 5c5e348d・e1-03 f86e2122・e1-04 194b747e・e1-05 c1cf74e7・e1-06 bd4efdfd・e1-07 1fe7a9b3・e1-08 0a1dd70c・e1-09 50465a95・e1-10 e3c3ba2a・e1-11 4628654f・e1-12 245bc4da・e1-13 ab06cdf1・e1-14 044a8cbd・e1-15 de018357・e1-ex 89614912・e2-01 975ae973・e2-02 7dcfab0f・e2-03 b7b9740d・e2-04 a0c0fb98・e2-05 b945e59f・e2-06 1c936bb3・e2-07 f6f75079・e2-08 764212d4・e2-09 468568ed・e2-10 14f22e24・e2-11 65fec2db・e2-12 df8c0d86・e2-13 2373069f・e2-14 ff93b6b6・e2-15 e479bb8b・e2-16 cb75bd6b・e2-ex 6f46024e・e3-01 d52bfad5・e3-02 0c58a283・e3-03 9bcc544b・e3-04 0a2f126d・e3-05 86b81abc・e3-06 55349d35・e3-07 8c4f6452・e3-08 b99023ff・e3-09 1ea73cfd・e3-10 130f9a3c・e3-11 5dc98598・e3-12 5aca9351・e3-ex f8f0f251・a1-01 68d581dd・a1-02 2eeea5a8・a1-03 dd2515aa・a1-04 de7e056e・a1-05 753451d6・a1-06 8b516ba0・a1-07 adc351e2・a1-08 b57ade39・a1-09 4f46370e・a1-10 f8bde4ba・a1-11 6d1ac03b・a1-12 e2b1858f・a1-13 394cf086・a1-14 0d8a5118・a1-15 61883536・a1-ex 5a31e835・a2-01 485b79c6・a2-02 f2960554・a2-03 a0b903a1・a2-04 3cbc8980・a2-05 34fb165d・a2-06 612fdedc・a2-07 e5cc3416・a2-08 d6aceae6・a2-09 a963fcb9・a2-10 fb538646・a2-11 b8d90223・a2-12 318d8d56・a2-13 45a48123・a2-14 5aaf12a2・a2-15 43175f4e・a2-ex 8b384fc0・a3-01 7888de0a・a3-02 f2db5215・a3-03 a34a814a・a3-04 7e45d770・a3-05 db0a0bbb・a3-06 8aabccfb・a3-07 b32d217e・a3-08 62e132bf・a3-09 b63f1fd4・a3-ex b555a2f9・f1-11 4b3ff8bd・f1-12 f3f86691・f1-13 815f7bdb・f1-14 8ccc8ff5・f1-15 500715f7・f1-16 357fca0f・f1-17 558ea82c・f1-18 a9a7c3b0・f1-19 18ccc510・f1-20 ed9f4f46・f1-21 47e66df5・f1-ex a5aa7e87・f2-01 7b7753f1・f2-02 0a5c108f・f2-03 f8443962・f2-04 8383e45b・f2-05 4906fbea・f2-06 6d34c7d4・f2-07 3ef5bdf6・f2-08 8793d7d5・f2-09 73bc4a2e・f2-10 735a24c6・f2-11 55e826f9・f2-12 48038aeb・f2-13 b78d1a7c・f2-14 620bfa7b・f2-15 680d8937・f2-16 d8683e4d・f2-17 361013fd・f2-18 52920b59・f2-19 b5989e18・f2-20 8d1165b5・f2-21 735b847d・f2-ex a68b9c76・f3-01 fa5fa1f5・f3-02 50b2f21f・f3-03 5a822b7b・f3-04 634a6316・f3-05 3b3f0a4b・f3-06 b58c204e・f3-07 8182bd1b・f3-08 a7c8b43a・f3-09 12ed2900・f3-10 6cdd39f6・f3-11 d6827457・f3-12 06a24e81・f3-13 974d8c4d・f3-14 7a5d4bd0・f3-15 e2d7719f・f3-16 8abb0893・f3-ex f4736045）</footer>
+<footer>make_site v1.29（s0-01 50c2e74a・s0-02 2e95fb85・s0-ex f2a050db・a0-01 30b2ef9f・a0-02 78939ab9・a0-ex e6d43d4a・f0-01 23dde620・f0-02 466eb6ce・f0-03 c23f17cb・f0-04 93c8d941・f0-ex cd29c841・e0-01 535e488a・e0-02 5b2a3c6a・e0-ex 70aa4361・f1-01 b1ec7614・f1-02 4248ca1f・f1-03 e6e039cd・f1-04 368722ae・f1-05 02fb2ad5・f1-06 9df6d592・f1-07 f7a43dd8・f1-08 fb1232a5・f1-09 1fbb41cd・f1-10 af3f724b・s1-01 a51aae27・s1-02 0a3e7f8f・s1-03 8658725b・s1-04 1f29bea3・s1-05 d9ac88dd・s1-06 4d6f40f9・s1-07 95ee285b・s1-08 63af92dc・s1-09 24c21369・s1-10 9bf7b858・s1-ex 2dfb9175・s2-01 7470b37d・s2-02 7f980b8d・s2-03 fa460cf1・s2-04 7ffccece・s2-05 77ae8dc8・s2-06 7869209f・s2-07 7caf2a14・s2-08 4cd032ba・s2-ex 2f635534・s3-01 da4874a0・s3-02 259b2144・s3-03 93bee158・s3-04 03857286・s3-05 9c42f2e6・s3-ex 76a0d264・e1-01 fc9b31af・e1-02 5c5e348d・e1-03 f86e2122・e1-04 194b747e・e1-05 c1cf74e7・e1-06 bd4efdfd・e1-07 1fe7a9b3・e1-08 0a1dd70c・e1-09 50465a95・e1-10 e3c3ba2a・e1-11 4628654f・e1-12 245bc4da・e1-13 ab06cdf1・e1-14 044a8cbd・e1-15 de018357・e1-ex 89614912・e2-01 975ae973・e2-02 7dcfab0f・e2-03 b7b9740d・e2-04 a0c0fb98・e2-05 b945e59f・e2-06 1c936bb3・e2-07 f6f75079・e2-08 764212d4・e2-09 468568ed・e2-10 14f22e24・e2-11 65fec2db・e2-12 df8c0d86・e2-13 2373069f・e2-14 ff93b6b6・e2-15 e479bb8b・e2-16 cb75bd6b・e2-ex 6f46024e・e3-01 d52bfad5・e3-02 0c58a283・e3-03 9bcc544b・e3-04 0a2f126d・e3-05 86b81abc・e3-06 55349d35・e3-07 8c4f6452・e3-08 b99023ff・e3-09 1ea73cfd・e3-10 130f9a3c・e3-11 5dc98598・e3-12 5aca9351・e3-ex f8f0f251・a1-01 68d581dd・a1-02 2eeea5a8・a1-03 dd2515aa・a1-04 de7e056e・a1-05 753451d6・a1-06 8b516ba0・a1-07 adc351e2・a1-08 b57ade39・a1-09 4f46370e・a1-10 f8bde4ba・a1-11 6d1ac03b・a1-12 e2b1858f・a1-13 394cf086・a1-14 0d8a5118・a1-15 61883536・a1-ex 5a31e835・a2-01 485b79c6・a2-02 f2960554・a2-03 a0b903a1・a2-04 3cbc8980・a2-05 34fb165d・a2-06 612fdedc・a2-07 e5cc3416・a2-08 d6aceae6・a2-09 a963fcb9・a2-10 fb538646・a2-11 b8d90223・a2-12 318d8d56・a2-13 45a48123・a2-14 5aaf12a2・a2-15 43175f4e・a2-ex 8b384fc0・a3-01 7888de0a・a3-02 f2db5215・a3-03 a34a814a・a3-04 7e45d770・a3-05 db0a0bbb・a3-06 8aabccfb・a3-07 b32d217e・a3-08 62e132bf・a3-09 b63f1fd4・a3-ex b555a2f9・f1-11 4b3ff8bd・f1-12 f3f86691・f1-13 815f7bdb・f1-14 8ccc8ff5・f1-15 500715f7・f1-16 357fca0f・f1-17 558ea82c・f1-18 a9a7c3b0・f1-19 18ccc510・f1-20 ed9f4f46・f1-21 47e66df5・f1-ex a5aa7e87・f2-01 7b7753f1・f2-02 0a5c108f・f2-03 f8443962・f2-04 8383e45b・f2-05 4906fbea・f2-06 6d34c7d4・f2-07 3ef5bdf6・f2-08 8793d7d5・f2-09 73bc4a2e・f2-10 735a24c6・f2-11 55e826f9・f2-12 48038aeb・f2-13 b78d1a7c・f2-14 620bfa7b・f2-15 680d8937・f2-16 d8683e4d・f2-17 361013fd・f2-18 52920b59・f2-19 b5989e18・f2-20 8d1165b5・f2-21 735b847d・f2-ex a68b9c76・f3-01 fa5fa1f5・f3-02 50b2f21f・f3-03 5a822b7b・f3-04 634a6316・f3-05 3b3f0a4b・f3-06 b58c204e・f3-07 8182bd1b・f3-08 a7c8b43a・f3-09 12ed2900・f3-10 6cdd39f6・f3-11 d6827457・f3-12 06a24e81・f3-13 974d8c4d・f3-14 7a5d4bd0・f3-15 e2d7719f・f3-16 8abb0893・f3-ex f4736045）</footer>
 </main>
 <script>
 (()=>{const $=(s,r=document)=>r.querySelector(s),$$=(s,r=document)=>[...r.querySelectorAll(s)];
